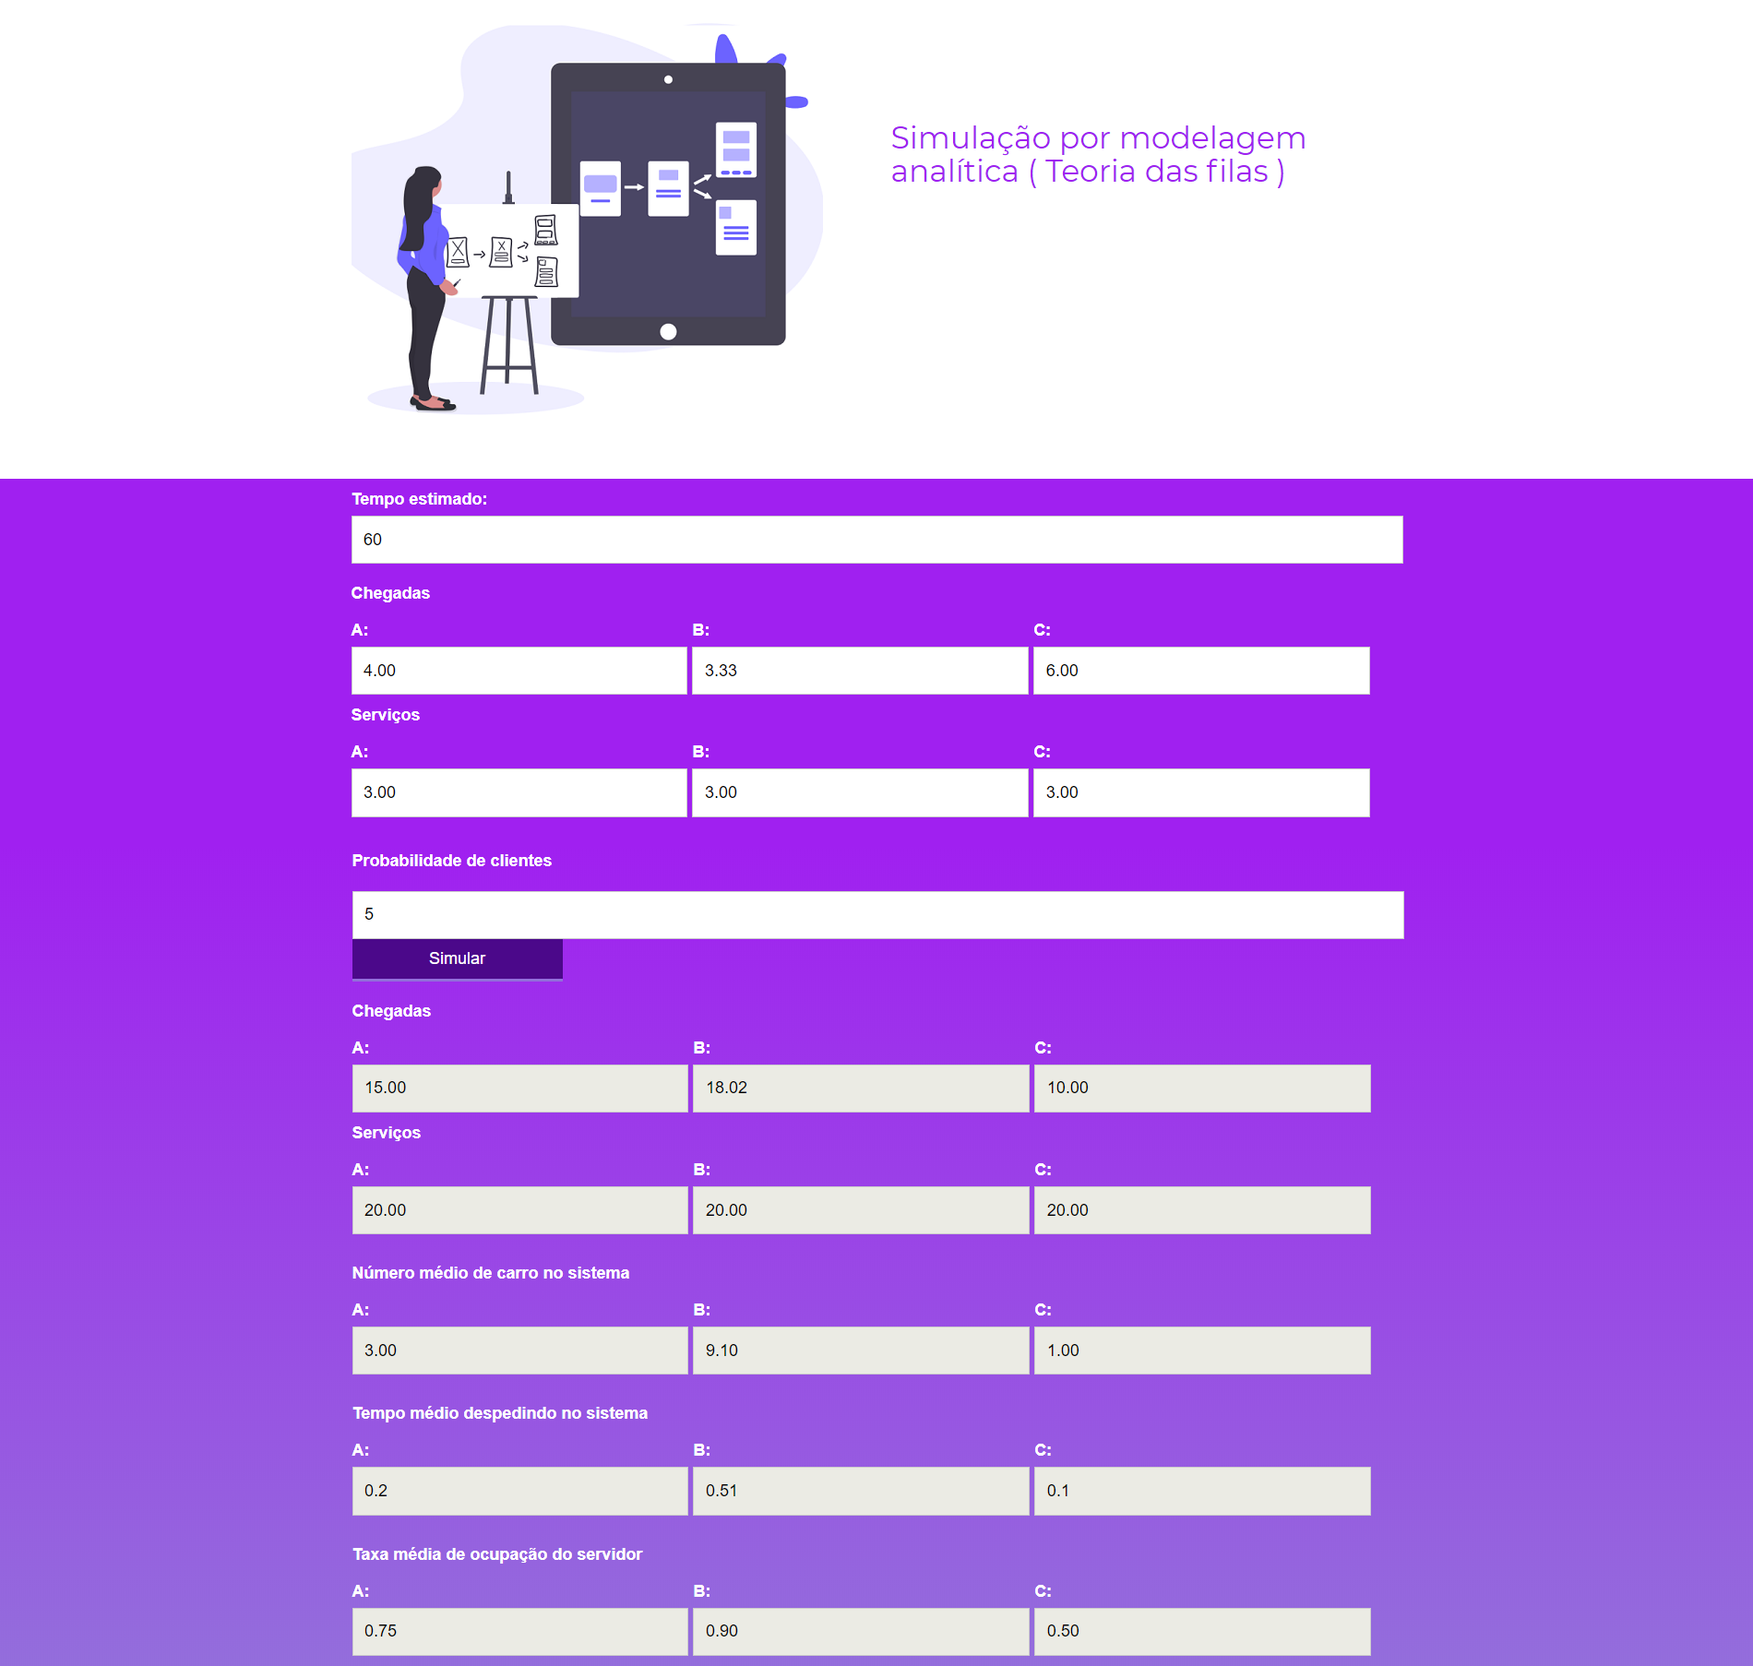
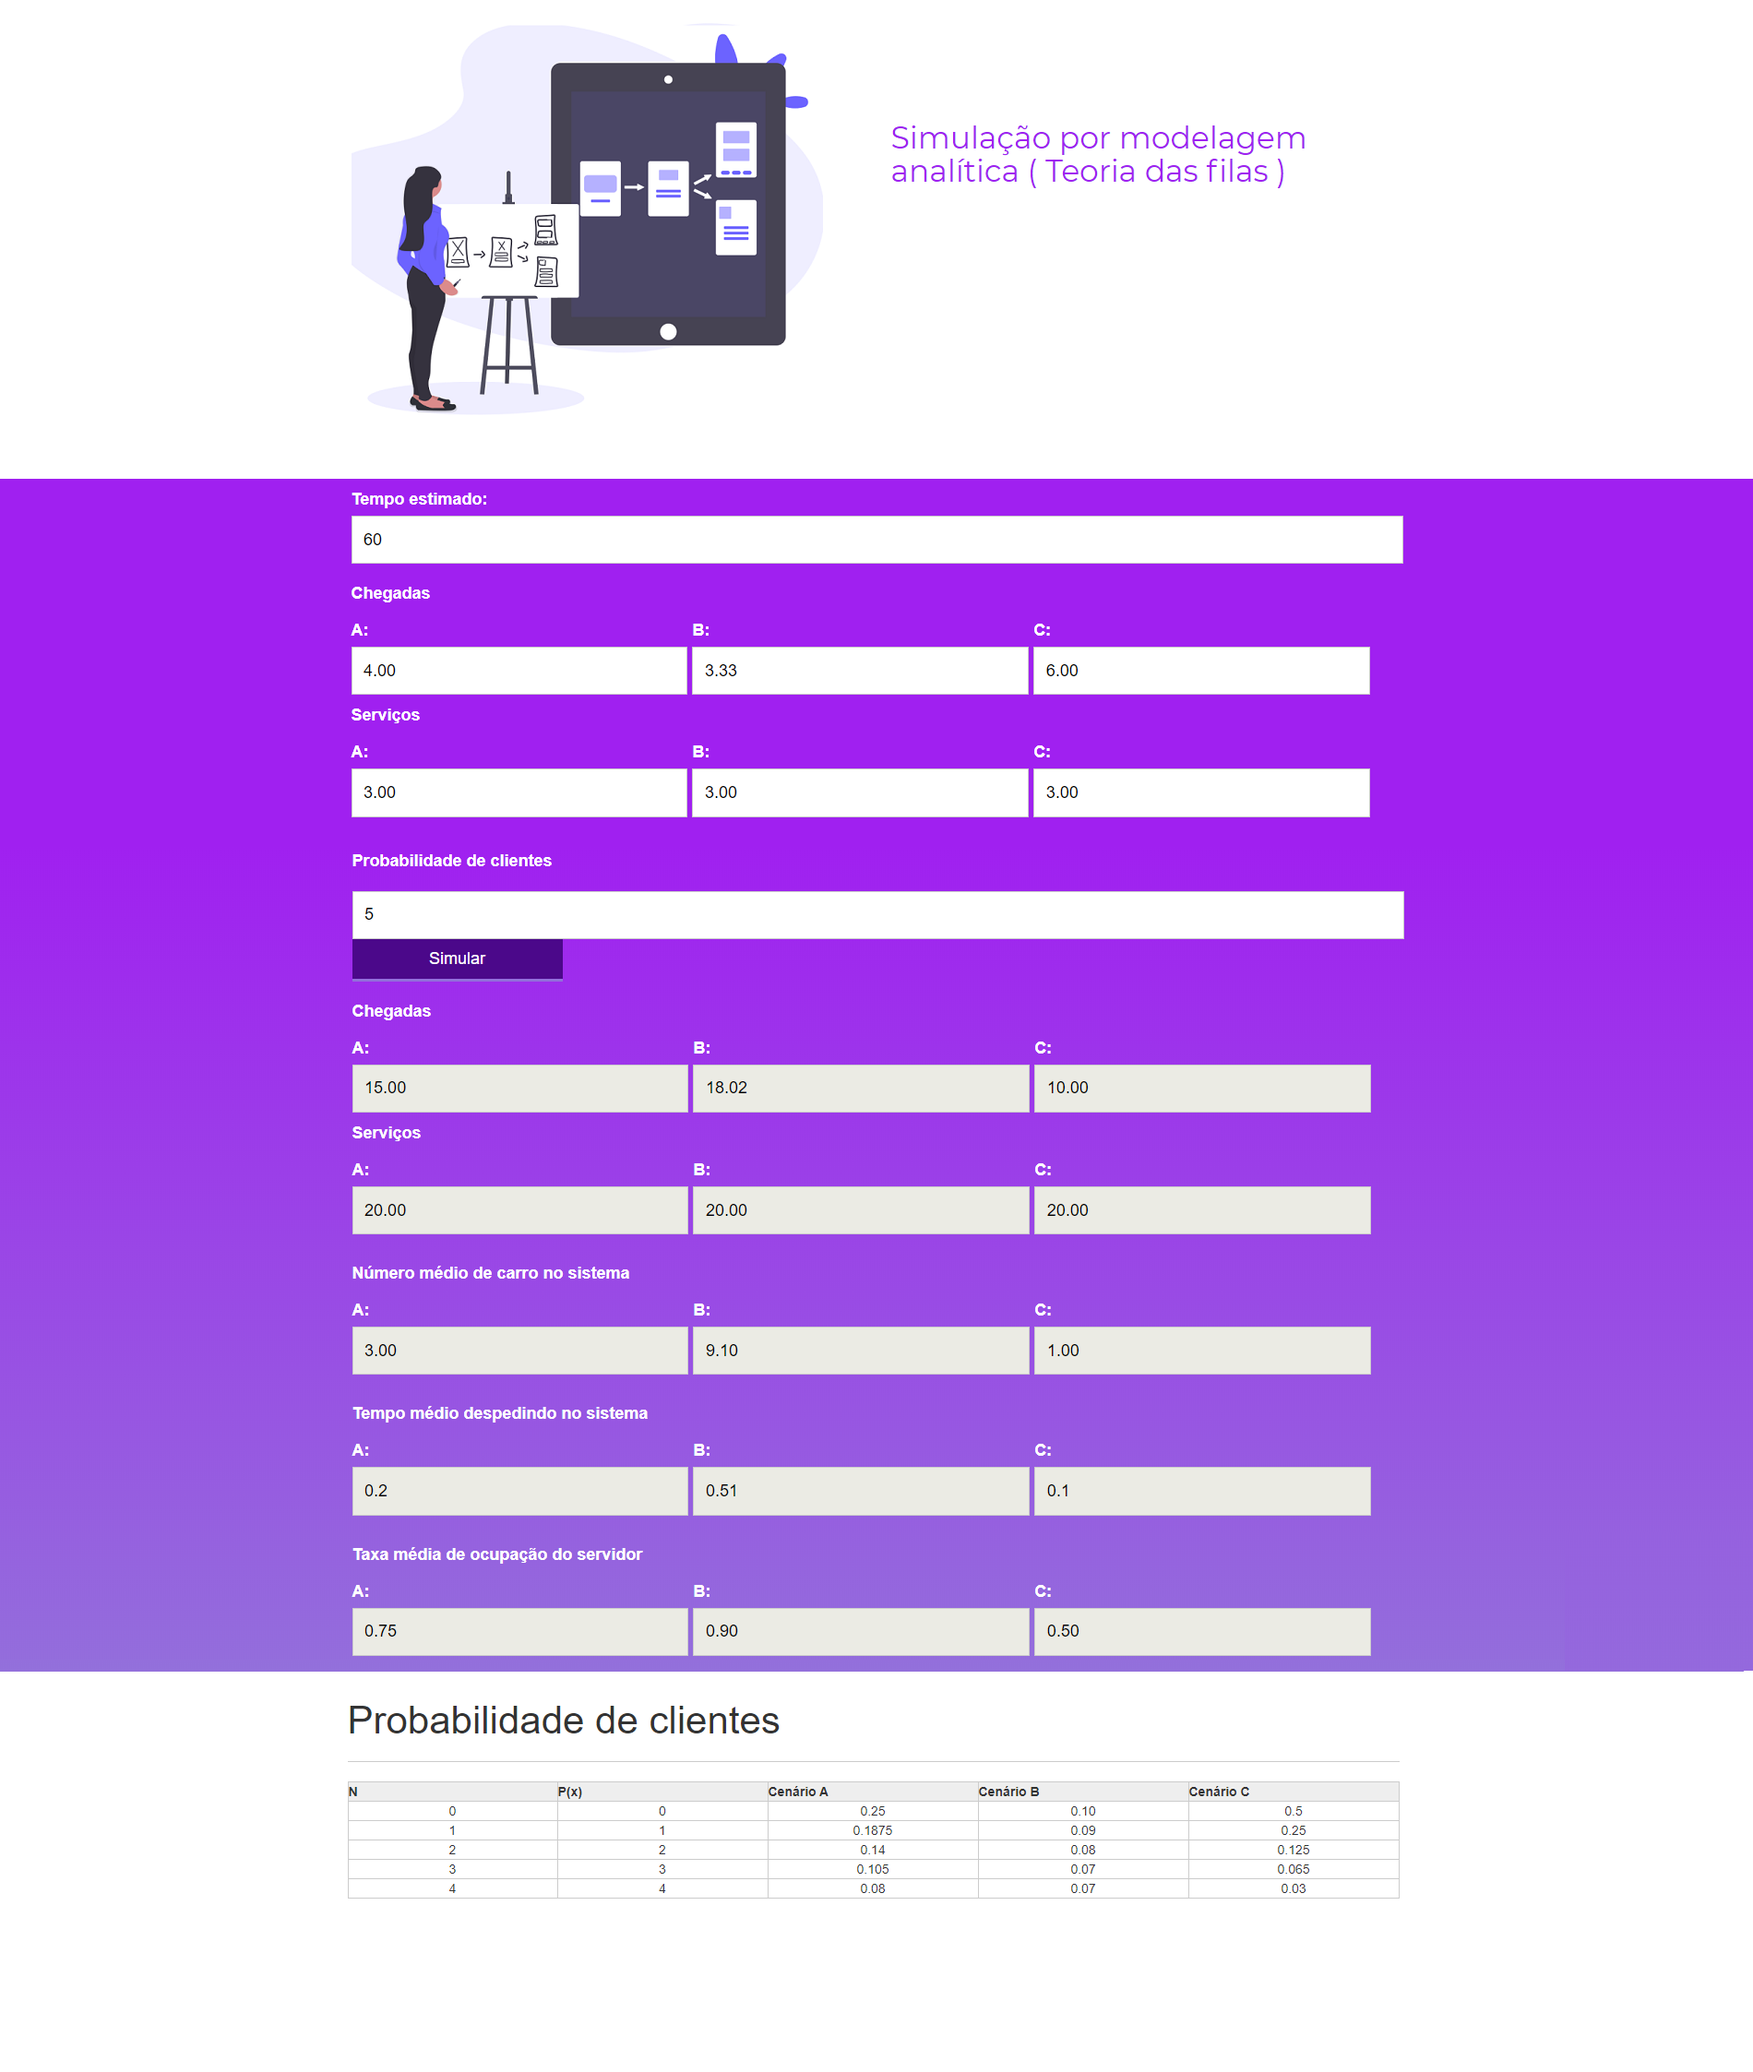
devagar quase parando na tabela!

diff --git a/js/formulario.js b/js/formulario.js
@@ -1,4 +1,3 @@
-
 var botaoAdicionar = document.querySelector("#adicionar-paciente");
 botaoAdicionar.addEventListener("click", function (event) {
     event.preventDefault();
@@ -84,59 +83,61 @@ botaoAdicionar.addEventListener("click", function (event) {
 
         var form = document.querySelector("#form-adiciona");
 
-        var paciente = obtemPacienteDoFormulario(form);
-
-        var pacienteTr = montaTr(paciente);
-
-        adicionaPacienteNaTabela(paciente);
+        var pacientes = [
+            {
+               n: 0,
+               p: 0,
+               cenarioA: (1 - (RespChegadaA / RespServicoA)) * ((RespChegadaA / RespServicoA) ** 0).toFixed(2),
+               cenarioB: ((1 - (RespChegadaB / RespServicoB)) * ((RespChegadaB / RespServicoB) ** 0)).toFixed(2),
+               cenarioC: (1 - (RespChegadaC / RespServicoC)) * ((RespChegadaC / RespServicoC) ** 0).toFixed(2),
+           },
+           {
+               n: 1,
+               p: 1,
+               cenarioA: (1 - (RespChegadaA / RespServicoA)) * ((RespChegadaA / RespServicoA) ** 1).toFixed(2),
+               cenarioB: ((1 - (RespChegadaB / RespServicoB)) * ((RespChegadaB / RespServicoB) ** 1)).toFixed(2),
+               cenarioC: (1 - (RespChegadaC / RespServicoC)) * ((RespChegadaC / RespServicoC) ** 1).toFixed(2),
+           },
+           {
+               n: 2,
+               p: 2,
+               cenarioA: (1 - (RespChegadaA / RespServicoA)) * ((RespChegadaA / RespServicoA) ** 2).toFixed(2),
+               cenarioB: ((1 - (RespChegadaB / RespServicoB)) * ((RespChegadaB / RespServicoB) ** 2)).toFixed(2),
+               cenarioC: (1 - (RespChegadaC / RespServicoC)) * ((RespChegadaC / RespServicoC) ** 2).toFixed(2),
+           },
+           {
+               n: 3,
+               p: 3,
+               cenarioA: (1 - (RespChegadaA / RespServicoA)) * ((RespChegadaA / RespServicoA) ** 3).toFixed(2),
+               cenarioB: ((1 - (RespChegadaB / RespServicoB)) * ((RespChegadaB / RespServicoB) ** 3)).toFixed(2),
+               cenarioC: (1 - (RespChegadaC / RespServicoC)) * ((RespChegadaC / RespServicoC) ** 3).toFixed(2),
+           },
+           {
+               n: 4,
+               p: 4,
+               cenarioA: (1 - (RespChegadaA / RespServicoA)) * ((RespChegadaA / RespServicoA) ** 4).toFixed(2),
+               cenarioB: ((1 - (RespChegadaB / RespServicoB)) * ((RespChegadaB / RespServicoB) ** 4)).toFixed(2),
+               cenarioC: (1 - (RespChegadaC / RespServicoC)) * ((RespChegadaC / RespServicoC) ** 4).toFixed(2),
+           }
+        ]
+        
+        var tbody = document.querySelector('tbody');
+        
+        pacientes.forEach(function (paciente) {
+            var tr = document.createElement('tr');
+            for (var campo in paciente) {
+                var td = document.createElement('td');
+                td.innerHTML = paciente[campo];
+                tr.appendChild(td);
+            };
+            tbody.appendChild(tr);
+        });
 
         var mensagensErro = document.querySelector("#mensagens-erro");
         mensagensErro.innerHTML = "";
         mensagensErro.value = "";
     }
-
-
 });
-
-function obtemPacienteDoFormulario() {
-
-        var paciente = {
-            n: 1,
-            p: 1,
-            cenarioA: (1 - (RespChegadaA / RespServicoA)) * ((RespChegadaA / RespServicoA) ** 0),
-            cenarioB: (1 - (RespChegadaB / RespServicoB)) * ((RespChegadaB / RespServicoB) ** 0),
-            cenarioC: (1 - (RespChegadaC / RespServicoC)) * ((RespChegadaC / RespServicoC) ** 0),
-        }
-        return paciente;
-}
-
-function montaTr(paciente) {
-    var pacienteTr = document.createElement("tr");
-    pacienteTr.classList.add("paciente");
-
-        pacienteTr.appendChild(montaTd(paciente.n, "info-n"));
-        pacienteTr.appendChild(montaTd(paciente.p, "info-pes"));
-        pacienteTr.appendChild(montaTd(paciente.cenarioA, "info-cenarioA"));
-        pacienteTr.appendChild(montaTd(paciente.cenarioB, "info-cenarioB"));
-        pacienteTr.appendChild(montaTd(paciente.cenarioC, "info-cenarioC"));
-
-    return pacienteTr;
-}
-
-function montaTd(dado, classe) {
-    var td = document.createElement("td");
-    td.classList.add(classe);
-    td.textContent = dado;
-
-    return td;
-}
-
-
-function adicionaPacienteNaTabela(paciente) {
-    var pacienteTr = montaTr(paciente);
-    var tabela = document.querySelector("#tabela-pacientes");
-    tabela.appendChild(pacienteTr);
-}
 
 
 function calcTaxaMediaA(RespChegadaA, RespServicoA) {
@@ -275,8 +276,11 @@ function validar() {
     return erros;
 }
 
+
 //  console.log((1 - (15 / 20)) * ((15/20) ** 0));
 //  console.log((1 - (RespChegadaA / RespServicoA)) * ((RespChegadaA / RespServicoA) ** i));
+
+
 /*  var i;
   var clientesA = [];
   var clientesB = [];
@@ -289,3 +293,45 @@ function validar() {
       console.log(clientesB[i]);
       console.log(clientesC[i]);
   } */
+
+  /*
+        var paciente = [
+         {
+            n: 0,
+            p: 0,
+            cenarioA: (1 - (RespChegadaA / RespServicoA)) * ((RespChegadaA / RespServicoA) ** 0).toFixed(2),
+            cenarioB: ((1 - (RespChegadaB / RespServicoB)) * ((RespChegadaB / RespServicoB) ** 0)).toFixed(2),
+            cenarioC: (1 - (RespChegadaC / RespServicoC)) * ((RespChegadaC / RespServicoC) ** 0).toFixed(2),
+        },
+        {
+            n: 1,
+            p: 1,
+            cenarioA: (1 - (RespChegadaA / RespServicoA)) * ((RespChegadaA / RespServicoA) ** 1).toFixed(2),
+            cenarioB: ((1 - (RespChegadaB / RespServicoB)) * ((RespChegadaB / RespServicoB) ** 1)).toFixed(2),
+            cenarioC: (1 - (RespChegadaC / RespServicoC)) * ((RespChegadaC / RespServicoC) ** 1).toFixed(2),
+        },
+        {
+            n: 2,
+            p: 2,
+            cenarioA: (1 - (RespChegadaA / RespServicoA)) * ((RespChegadaA / RespServicoA) ** 2).toFixed(2),
+            cenarioB: ((1 - (RespChegadaB / RespServicoB)) * ((RespChegadaB / RespServicoB) ** 2)).toFixed(2),
+            cenarioC: (1 - (RespChegadaC / RespServicoC)) * ((RespChegadaC / RespServicoC) ** 2).toFixed(2),
+        },
+        {
+            n: 3,
+            p: 3,
+            cenarioA: (1 - (RespChegadaA / RespServicoA)) * ((RespChegadaA / RespServicoA) ** 3).toFixed(2),
+            cenarioB: ((1 - (RespChegadaB / RespServicoB)) * ((RespChegadaB / RespServicoB) ** 3)).toFixed(2),
+            cenarioC: (1 - (RespChegadaC / RespServicoC)) * ((RespChegadaC / RespServicoC) ** 3).toFixed(2),
+        },
+        {
+            n: 4,
+            p: 4,
+            cenarioA: (1 - (RespChegadaA / RespServicoA)) * ((RespChegadaA / RespServicoA) ** 4).toFixed(2),
+            cenarioB: ((1 - (RespChegadaB / RespServicoB)) * ((RespChegadaB / RespServicoB) ** 4)).toFixed(2),
+            cenarioC: (1 - (RespChegadaC / RespServicoC)) * ((RespChegadaC / RespServicoC) ** 4).toFixed(2),
+        }
+    ]
+        return paciente;
+}
+  */
